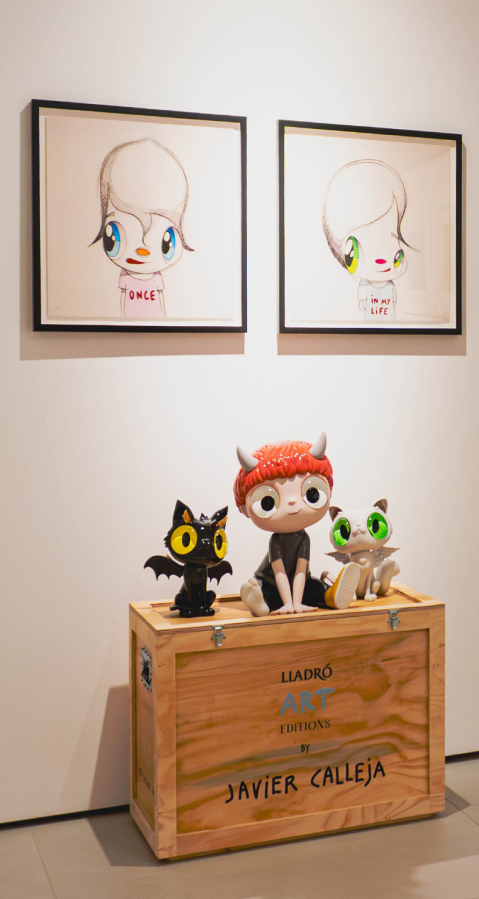
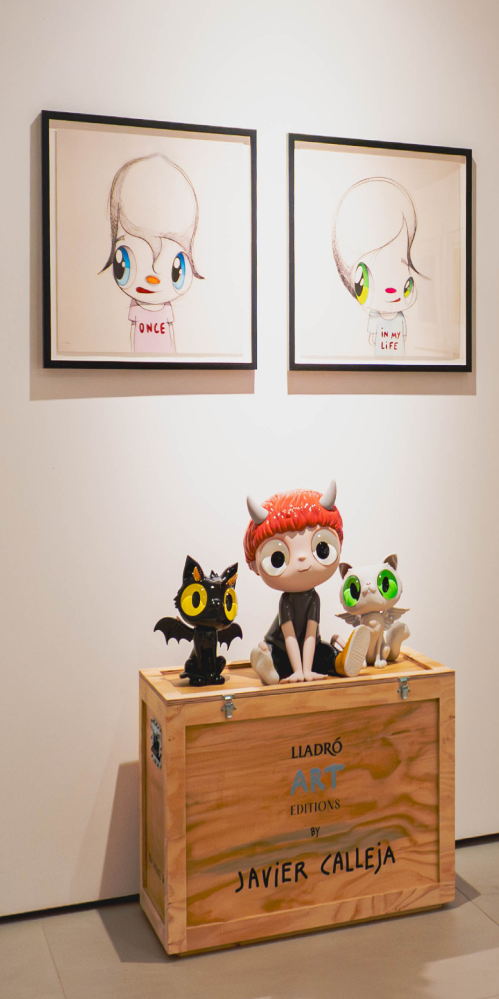
Ajuates "About"

diff --git a/public/assets/css/about.css b/public/assets/css/about.css
@@ -87,7 +87,7 @@
    height: auto;
    border: none;
    display: block;
-   max-height: 550px;
+   max-height: 600px;
    object-fit: cover;
    object-position: center;
 }

diff --git a/public/views/about.php b/public/views/about.php
@@ -79,10 +79,12 @@
             </div>
             <div class="dual-right-column-20">
                 <div class="dual-right-image-20">
-                    <picture>
-                        <source srcset="<?= BASE_URL; ?>public/assets/image/about/img-04-m.png" media="(max-width: 678px)">
-                        <img class="dual-img-20" src="<?= BASE_URL; ?>public/assets/image/about/img-04.png" alt="About Image">
-                    </picture>
+                    <div class="dual-right-image-20">
+                        <picture>
+                            <source srcset="<?= BASE_URL; ?>public/assets/image/about/img-04-m.png" media="(max-width: 678px)">
+                            <img class="dual-img-20" src="<?= BASE_URL; ?>public/assets/image/about/img-04.png" alt="About Image">
+                        </picture>
+                    </div>
                 </div>
             </div>
         </div>
